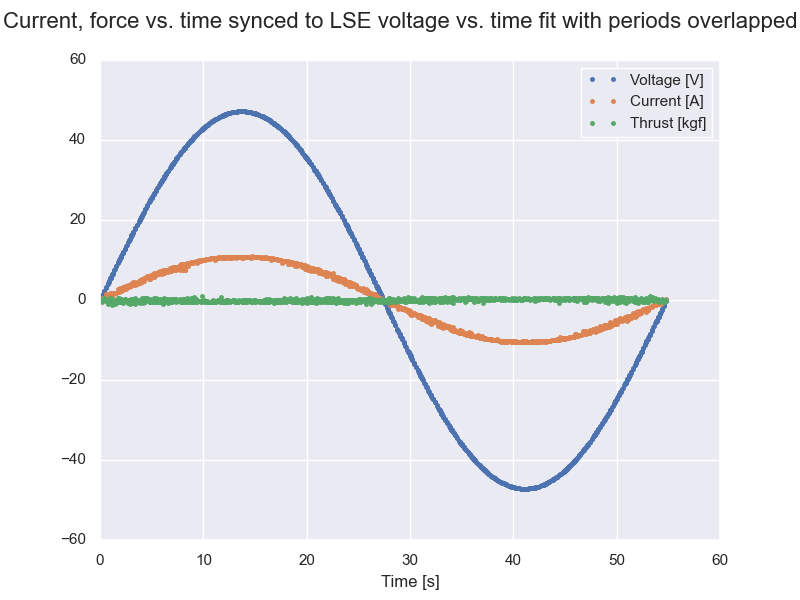
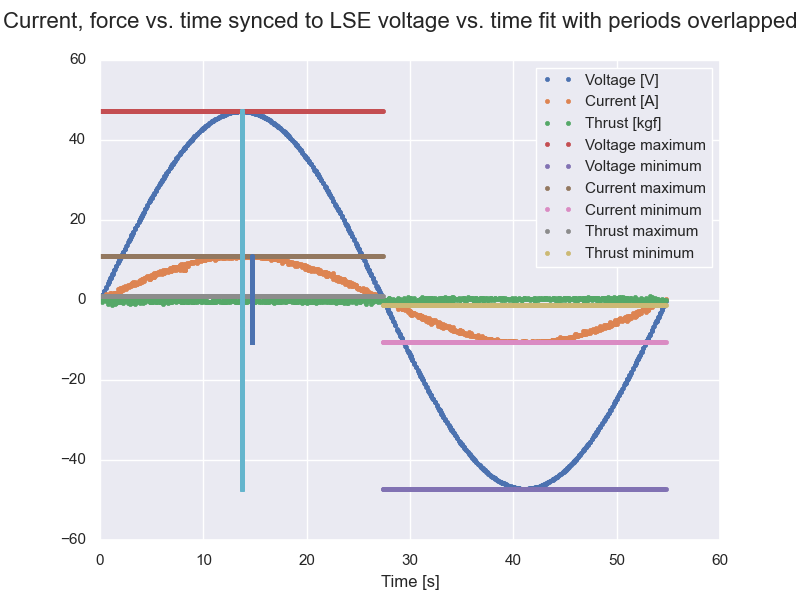
Added more graphs

Changed region(s): [[0.125, 0.18, 0.8438, 0.81], [0.7188, 0.12, 0.875, 0.45], [0.4688, 0.81, 0.8438, 0.84]]

diff --git a/main.py b/main.py
@@ -1,6 +1,5 @@
-# Display peak values on plots as just a horizontal line
-# Display raw voltage plot on graph of overlapped data
 # Eventually reflect reverse direction of thrust vs. current such that thrust is always positive
+# Also have a raw thrust vs. current graph potentially
 
 ### Import libraries ###
 import os
@@ -40,7 +39,9 @@ ts_file = "\\ts.png"
 ct_file_f = "\\ct_f.png"
 ct_file_r = "\\ct_r.png"
 ts_overlapped_file = "\\ts_overlayed.png"
+voltage_fit_file = "\\vfitted_vs_vraw.png"
 fig_folder = "\\figures"
+show_line = True # change to True if you want to show maximums and minimums on the overlayed chart 
 
 ### Read .log file, handling invalid user input ###
 data_file = user_in("Enter data file path: ")
@@ -55,14 +56,13 @@ while True:
         fin.close() 
         break
 
-# At this point, lines[] contains each line of the text file in string format as a list
-
 ### Parse file and collect force, current and voltage data points into lists ###
 # Try to make more flexible eventually, as in being able to parse any file loosely formatted the same way 
 force = []; current = []; voltage = []; time = []; time2 = []; force_avg = []
 force_zero = 0
 line = 0
 current_line = lines[line].split()
+# Once the delay time gets added to the text file I can make the force averaging/background value skipping more efficient
 while "<end" not in current_line and line < len(lines):
     if lines[line].startswith("#Scaling_Factor"): # Get scaling factors
         sf = lines[line].split()[1:6]
@@ -82,8 +82,6 @@ while "<end" not in current_line and line < len(lines):
     line += 1
     current_line = lines[line].split()
 
-# At this point, force[], current[] and voltage[] contain all respective raw data points in list format
-
 ### Convert force, current and voltage lists into NumPy arrays ###
 force = np.array(force) * sf_force * lever_arm_ratio # apply scaling factors 
 current = np.array(current) * sf_current
@@ -91,7 +89,7 @@ voltage = np.array(voltage) * sf_voltage
 power = np.multiply(current, voltage) # compute power
 time = np.array(time)
 
-# Format timestamps such that time values are the value in seconds since beginning automated test #
+# Format timestamps such that time values are the value in seconds since beginning automated test 
 ref_time = time[0]
 for t in range(len(time)): time[t] = time[t] - ref_time
 
@@ -120,18 +118,27 @@ fitted_period = 1 / fitted_freq
 fitted_voltage = sin_func(time, fitted_amp, fitted_freq) # get approximated voltage sine curve
 syncd_data = np.vstack((time, fitted_voltage, force, current)).T # "sync" all plots in a 2D matrix
 
+# Plot fitted voltage curve and raw voltage curve overlayed to assess accuracy of curve fit
+fig_fitted, ax_fitted = plt.subplots(1)
+fig_fitted.suptitle("Voltage vs time (Curve fit and raw data)", fontsize = 16)
+ax_fitted.plot(time, fitted_voltage, '.', label = "Fitted voltage curve")
+ax_fitted.plot(time, voltage, '.', label = "Raw data")
+ax_fitted.set_ylim(np.amin(voltage) - 20, np.amax(voltage) + 20)
+ax_fitted.set_xlabel("Time [s]")
+ax_fitted.set_ylabel("Voltage [V]")
+plt.legend(loc = "upper right")
+
 # Using the voltage fitted curve, determine the index of the start of each period using a zero cross method
 rows = syncd_data.shape[0]
 ind_p = [] # list to hold the indices corresponding to the start of each period
-ind_p.append(0) # graph starts from 0 since phase is 0, so first period starts from index 0
+ind_p.append(0) # graph starts from 0 since phase shift is 0, so first period starts from index 0
 for i in range(rows - 1):
     if(syncd_data[i,1] < 0 and syncd_data[i+1,1] >=0): # if we hit a zero cross going from -ve to +ve, this is the end of one period
         ind_p.append(i+1)
 ind_p = np.array(ind_p) # convert to numpy array for consistency
-
 num_periods = len(ind_p)
 
-# Using ind_p, shift all time data in sync_data such that each period "chunk" starts from 0 
+# Using ind_p, shift all time data in syncd_data such that each period "chunk" starts from 0 
 for i in range(1, num_periods - 1): syncd_data[ind_p[i]:ind_p[i+1], 0] -= fitted_period * i
 syncd_data[ind_p[num_periods - 1]:len(syncd_data), 0] -= fitted_period * (num_periods - 1) # time shift last period
 
@@ -139,46 +146,63 @@ syncd_data[ind_p[num_periods - 1]:len(syncd_data), 0] -= fitted_period * (num_pe
 sorted_data = syncd_data[np.argsort(syncd_data[:, 0])] # argsort returns the indices that would sort the array specified
 df_sorted = pd.DataFrame(sorted_data, columns = ["time", "voltage", "force", "current"])
 
-# Extract values in DataFrame into individual Numpy arrays for convenience -> these arrays hold the "averaged" data points over 5 periods
-v_avg = np.array(df_sorted["voltage"]) # voltage
-i_avg = np.array(df_sorted["current"]) # current
-T_avg = np.array(df_sorted["force"]) # thrust
-t = np.array(df_sorted["time"])
-p_avg = np.multiply(v_avg, i_avg)
+# Extract values in DataFrame into individual Numpy arrays for convenience -> these arrays hold the "sorted" data points over 5 periods
+v_avg = np.array(df_sorted["voltage"]) # voltage [V]
+i_avg = np.array(df_sorted["current"]) # current [A]
+T_avg = np.array(df_sorted["force"]) # thrust [kgf]
+t = np.array(df_sorted["time"]) # time [s]
+p_avg = np.multiply(v_avg, i_avg) # power [W]
 
 #plot all the synced and overlapped data
 fig_overlapped, ax_sync = plt.subplots(1)
+fig_overlapped.suptitle("Current, force vs. time synced to LSE voltage vs. time fit with periods overlapped", fontsize = 16)
 ax_sync.plot(t, v_avg, '.', label = "Voltage [V]") # voltage
 ax_sync.plot(t, i_avg, '.', label = "Current [A]") # current
 ax_sync.plot(t, T_avg, '.', label = "Thrust [kgf]") # force
-plt.legend(loc = "upper right")
 ax_sync.set_xlabel("Time [s]")
 
-fig_overlapped.suptitle("Current, force vs. time synced to LSE voltage vs. time fit with periods overlapped", fontsize = 16)
-
+### Determine and store peak values from synced and overlapped data ###
 # Determine max power for reverse direction
 pmin = p_avg[0]
 for i in range(len(power)): 
     if(abs(p_avg[i]) > abs(pmin) and v_avg[i] < 0 and i_avg[i] < 0): pmin = p_avg[i]
 
-### Determine and store peak values from synced and overlapped data into Pandas dataframe ###
+# Store peak values from synced and overlapped data into Pandas dataframe 
 peaks = np.array([np.amax(T_avg), np.amax(i_avg), np.amax(v_avg), np.amax(p_avg)])
-troughs = np.array([abs(np.min(T_avg)), abs(np.amin(i_avg)), abs(np.amin(v_avg)), pmin])
+troughs = np.array([abs(np.amin(T_avg)), abs(np.amin(i_avg)), abs(np.amin(v_avg)), pmin])
 df_extrema = pd.DataFrame({"Max forward": peaks, "Max reverse": troughs}, index = ["Force [lbf]", "Current [A]", "Voltage [V]", "Power [W]"])
 
-### Graphing thrust vs. current ###
-# Seperate forward/reverse direction current, thrust and voltage values, using voltage plot as zero cross reference
+# Graph peak values on plot of overlapped data
+if show_line:
+    v_max = np.full_like(np.arange(int(len(v_avg) / 2), dtype = float), peaks[2])
+    v_min = np.full_like(np.arange(int(len(v_avg) / 2), dtype = float), troughs[2])
+    i_max = np.full_like(np.arange(int(len(i_avg) / 2), dtype = float), peaks[1])
+    i_min = np.full_like(np.arange(int(len(i_avg) / 2), dtype = float), troughs[1])
+    T_max = np.full_like(np.arange(int(len(T_avg) / 2), dtype = float), peaks[0])
+    T_min = np.full_like(np.arange(int(len(T_avg) / 2), dtype = float), troughs[0])
+
+    ax_sync.plot(t[0:int(len(t) / 2)], v_max, '.', label = "Voltage maximum"); ax_sync.plot(t[int(len(t) / 2):int(len(t))], -v_min, '.', label = "Voltage minimum")
+    ax_sync.plot(t[0:int(len(t) / 2)], i_max, '.', label = "Current maximum"); ax_sync.plot(t[int(len(t) / 2):int(len(t))], -i_min, '.', label = "Current minimum")
+    ax_sync.plot(t[0:int(len(t) / 2)], T_max, '.', label = "Thrust maximum"); ax_sync.plot(t[int(len(t) / 2):int(len(t))], -T_min, '.', label = "Thrust minimum")
+
+    # Plot vertical line at the time intersection of max values for voltage and current
+    ax_sync.plot(np.full_like(np.arange(int(len(v_avg)), dtype = float), t[np.argmax(v_avg)]), v_avg, '.')
+    ax_sync.plot(np.full_like(np.arange(int(len(i_avg)), dtype = float), t[np.argmax(i_avg)]), i_avg, '.')
+plt.legend(loc = "upper right")
+
+### Graph thrust vs. current ###
+# Seperate forward/reverse direction current and thrust values, using fitted voltage plot as zero cross reference
 i = 0
 current_f = []; thrust_f = []; 
 current_r = []; thrust_r = []; 
 
 # Use fitted voltage curve and zero cross method to determine forward/reverse values from the overlapped, synced data
 while(v_avg[i] < 0): i += 1 # get to zero cross of voltage graph
-while(v_avg[i] >= 0):
+while(v_avg[i] >= 0): # forward 
     current_f.append(i_avg[i])
     thrust_f.append(T_avg[i])
     i += 1
-while(i < len(voltage) - 1):
+while(i < len(voltage) - 1): # reverse
     current_r.append(i_avg[i])
     thrust_r.append(T_avg[i])
     i += 1
@@ -206,7 +230,7 @@ mymodel_r = list(map(ct_line, current_r))
 ### Determine length of dead band for thrust vs. current ###
 deadband = abs(b_f - b_r)
 
-### Save slope and intercept data into dataframe ###
+### Save slope, intercept and r^2 data into dataframe ###
 ct_stats_f = np.array([m_f, b_f, r_f**2])
 ct_stats_r = np.array([m_r, b_r, r_r**2])
 df_stats = pd.DataFrame({"Forward": ct_stats_f, "Reverse": ct_stats_r}, index = ["m [lbf/A]", "b", "r^2"])
@@ -220,7 +244,7 @@ axc_f.set_ylabel("Thrust [kgf]")
 axc_f.set_xlabel("Current [A]")
 
 plt.scatter(current_f, thrust_f)
-plt.plot(current_f, mymodel_f) 
+plt.plot(current_f, mymodel_f, color = "orange") 
 
 # Graph reverse direction thrust vs. current
 figc_r = plt.figure()
@@ -231,18 +255,7 @@ axc_r.set_ylabel("Thrust [kgf]")
 axc_r.set_xlabel("Current [A]")
 
 plt.scatter(current_r, thrust_r)
-plt.plot(current_r, mymodel_r)
-
-# Display total thrust vs. current plot
-#figc = plt.figure()
-#figc.suptitle("Thrust vs. current", fontsize = 16)
-#axc = plt.axes()
-
-#axc.set_ylabel("Thrust [kgf]")
-#axc.set_xlabel("Current [A]")
-
-#plt.scatter(time, voltage, c = "red")
-#plt.scatter(time, fitted_voltage, c = "green")
+plt.plot(current_r, mymodel_r, color = "orange")
 
 ### Save figures and files ###
 if not os.path.isdir(my_path + data_folder + fig_folder):
@@ -251,15 +264,16 @@ figt.savefig(my_path + data_folder + fig_folder + ts_file)
 figc_f.savefig(my_path + data_folder + fig_folder + ct_file_f)
 figc_r.savefig(my_path + data_folder + fig_folder + ct_file_r)
 fig_overlapped.savefig(my_path + data_folder + fig_folder + ts_overlapped_file)
+fig_fitted.savefig(my_path + data_folder + fig_folder + voltage_fit_file)
 
 with open(my_path + data_folder + "\\stats.txt", mode = 'w') as file_object:
     print("|Peak Values|", file = file_object)
     print(df_extrema, file = file_object)
     print("\n|Thrust vs. current stats|", file = file_object)
     print(df_stats, file = file_object)
-    print("\nThrust vs. current deadband: ", deadband, file = file_object)
+    print("\nThrust vs. current deadband magnitude: ", deadband, file = file_object)
 
 ### Display all plots, data of interest -> last action in program, since plt.show() stalls execution ###
-plt.show() 
+#plt.show() 
 
 
